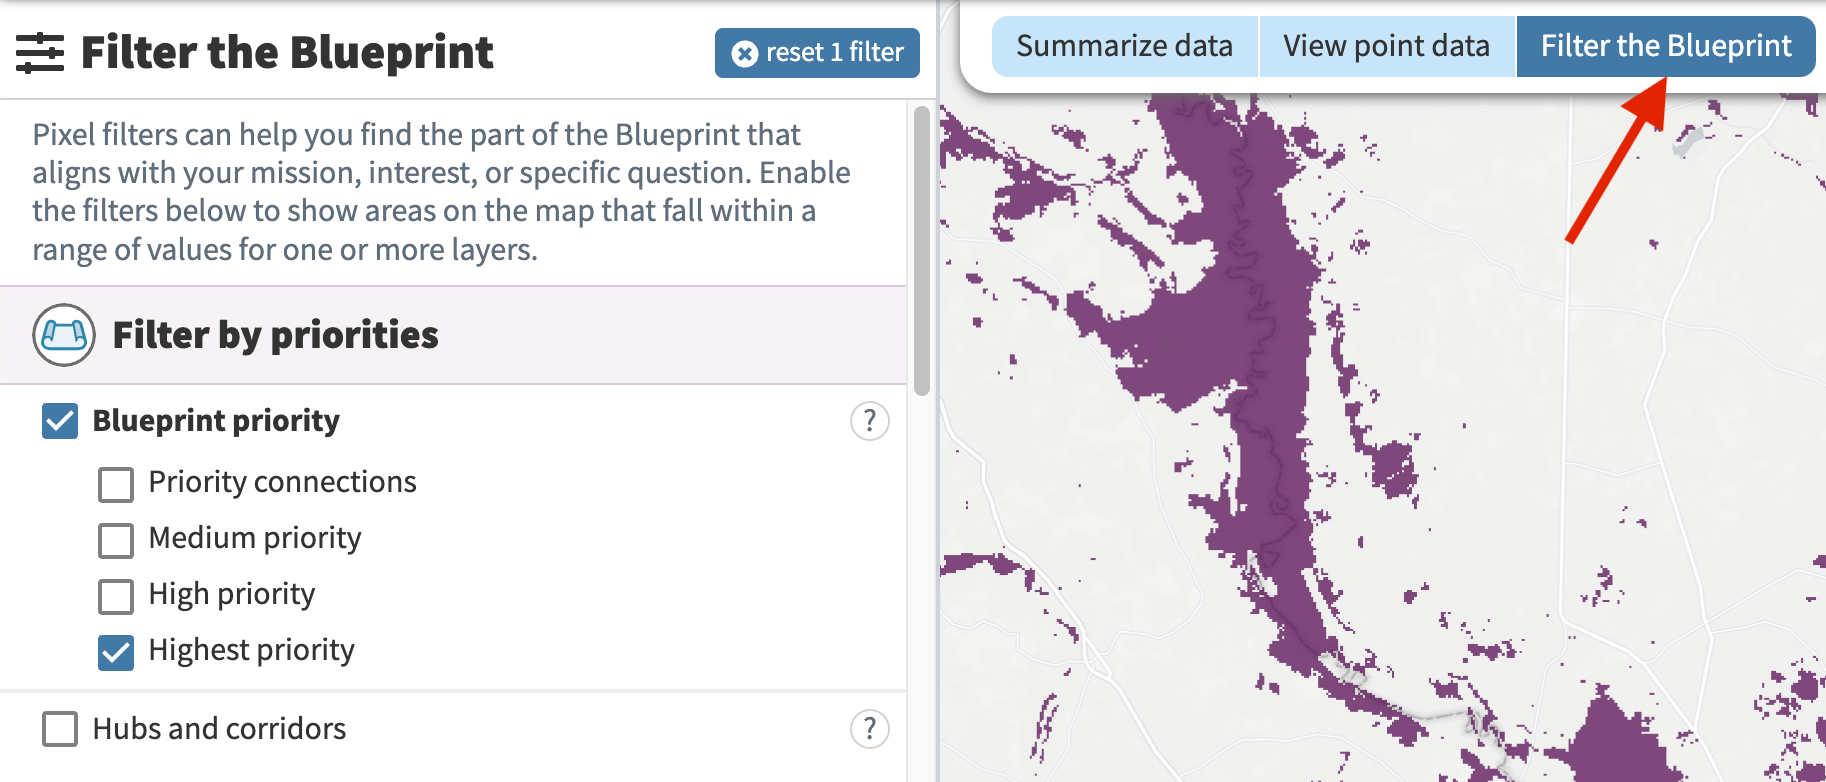
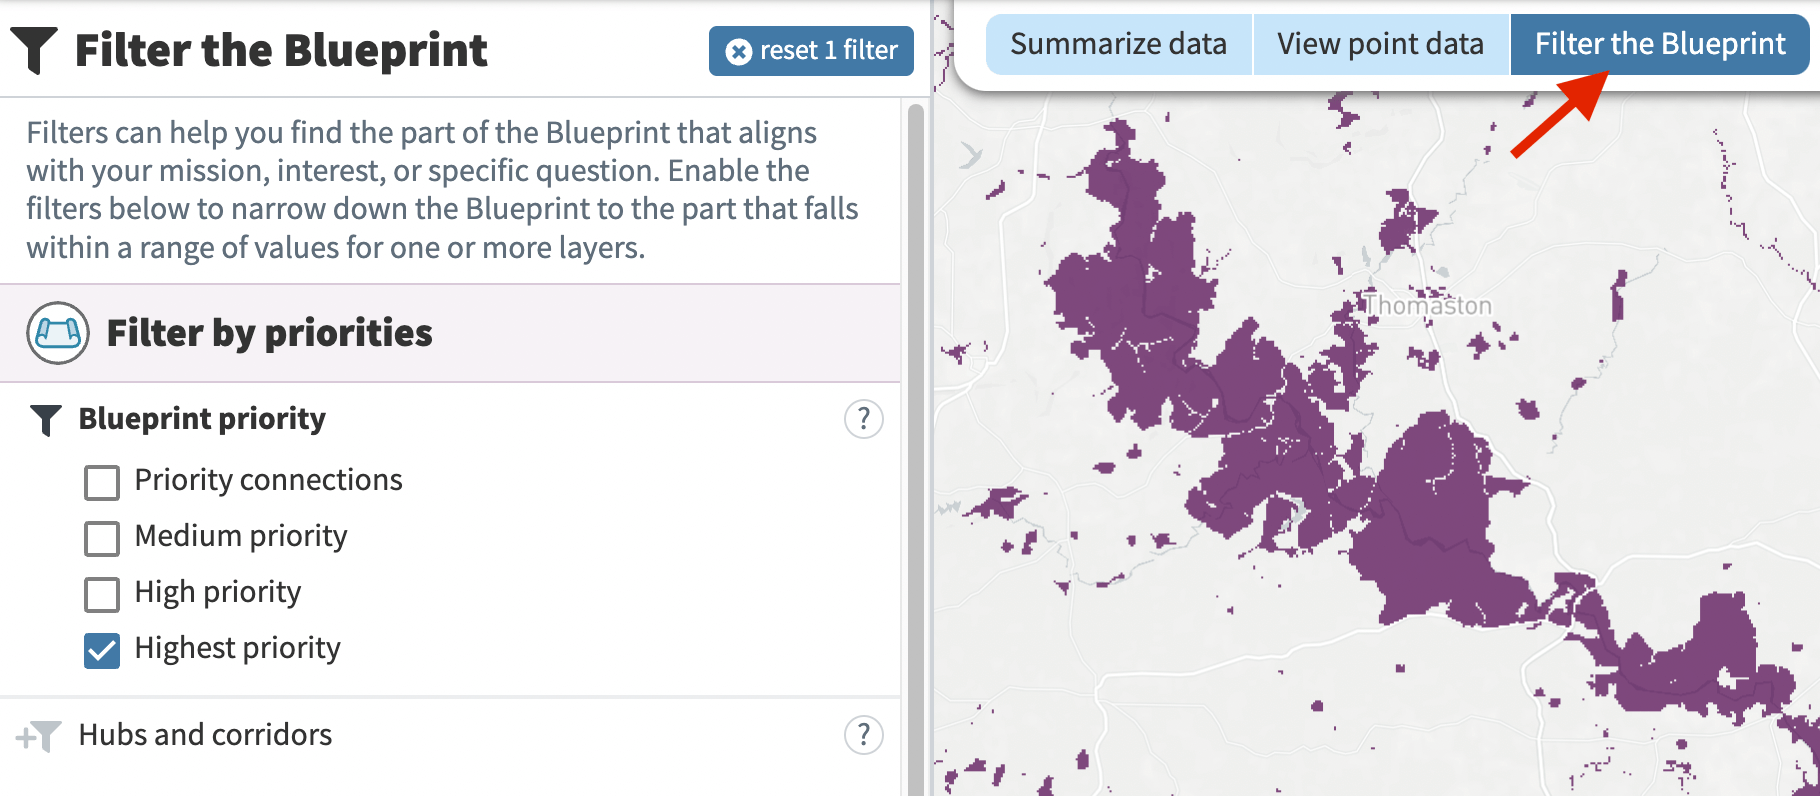
Updates per feedback

diff --git a/ui/src/pages/help.jsx b/ui/src/pages/help.jsx
@@ -43,6 +43,12 @@ const HelpPage = ({
     filterImage: {
       childImageSharp: { gatsbyImageData: filterImage },
     },
+    filterBeforeImage: {
+      childImageSharp: { gatsbyImageData: filterBeforeImage },
+    },
+    filterAfterImage: {
+      childImageSharp: { gatsbyImageData: filterAfterImage },
+    },
     toggleLayersButtonImage: {
       childImageSharp: { gatsbyImageData: toggleLayersButtonImage },
     },
@@ -226,10 +232,10 @@ const HelpPage = ({
       <Box as="section">
         <Heading as="h2">Filter the Blueprint:</Heading>
         <Paragraph>
-          Pixel filters can help you find the part of the Blueprint that aligns
-          with your mission, interests, or specific question. Use the filters to
-          show areas on the map that fall within a range of values for one or
-          more layers, including the Blueprint, hubs and corridors, underlying
+          Filters can help you find the part of the Blueprint that aligns with
+          your mission, interests, or specific question. Use the filters to show
+          areas on the map that fall within a range of values for one or more
+          layers, including the Blueprint, hubs and corridors, underlying
           indicators, and threats.
         </Paragraph>
 
@@ -260,8 +266,23 @@ const HelpPage = ({
           that do not co-occur at the same location, such as estuarine coastal
           condition and Great Plains perennial grasslands, nothing will display
           on the map.
-          <br />
-          <br />
+        </Paragraph>
+        <Grid columns={[0, 2]} gap={4} sx={{ mt: '3rem' }}>
+          <Box>
+            <GatsbyImage
+              image={filterBeforeImage}
+              alt="Help image for filtering the Blueprint showing before filters are applied"
+            />
+          </Box>
+          <Box>
+            <GatsbyImage
+              image={filterAfterImage}
+              alt="Help image for filtering the Blueprint showing after filters are applied"
+            />
+          </Box>
+        </Grid>
+
+        <Paragraph sx={{ mt: '2rem' }}>
           Note: pixel filters may take a few moments to display within your
           browser, especially as you pan or zoom the map. You may need to zoom
           in to see areas that meet your filters.
@@ -447,6 +468,26 @@ export const pageQuery = graphql`
       }
     }
     filterImage: file(relativePath: { eq: "help-filter.png" }) {
+      childImageSharp {
+        gatsbyImageData(
+          layout: CONSTRAINED
+          formats: [AUTO, WEBP]
+          placeholder: BLURRED
+          width: 600
+        )
+      }
+    }
+    filterBeforeImage: file(relativePath: { eq: "help-filter-before.png" }) {
+      childImageSharp {
+        gatsbyImageData(
+          layout: CONSTRAINED
+          formats: [AUTO, WEBP]
+          placeholder: BLURRED
+          width: 600
+        )
+      }
+    }
+    filterAfterImage: file(relativePath: { eq: "help-filter-after.png" }) {
       childImageSharp {
         gatsbyImageData(
           layout: CONSTRAINED

diff --git a/ui/src/content/FiltersTab/index.jsx b/ui/src/content/FiltersTab/index.jsx
@@ -120,10 +120,10 @@ const FiltersTab = () => {
         <Box
           sx={{ px: '1rem', py: '0.5rem', lineHeight: 1.2, color: 'grey.8' }}
         >
-          Pixel filters can help you find the part of the Blueprint that aligns
-          with your mission, interest, or specific question. Enable the filters
-          below to narrow down the Blueprint to the part that falls within a
-          range of values for one or more layers.
+          Filters can help you find the part of the Blueprint that aligns with
+          your mission, interest, or specific question. Enable the filters below
+          to narrow down the Blueprint to the part that falls within a range of
+          values for one or more layers.
         </Box>
         <FilterGroup
           id="blueprint"

diff --git a/ui/src/content/FiltersTab/Filter.jsx b/ui/src/content/FiltersTab/Filter.jsx
@@ -1,7 +1,7 @@
 import React, { useCallback, useRef } from 'react'
 import PropTypes from 'prop-types'
 import { Box, Checkbox, Flex, Label, Text } from 'theme-ui'
-import { Filter as FilterIcon, Plus, Minus } from '@emotion-icons/fa-solid'
+import { Filter as FilterIcon, Plus } from '@emotion-icons/fa-solid'
 
 import { InfoTooltip } from 'components/tooltip'
 import { indexBy } from 'util/data'

diff --git a/ui/src/components/search/SearchField.jsx b/ui/src/components/search/SearchField.jsx
@@ -69,7 +69,7 @@ const SearchField = forwardRef(({ value, onChange, onFocus, onBlur }, ref) => {
             border: 'none',
             outline: 'none',
             '&::placeholder': {
-              color: 'grey.4',
+              color: 'grey.8',
             },
           }}
           placeholder="Find a place by name / address"
